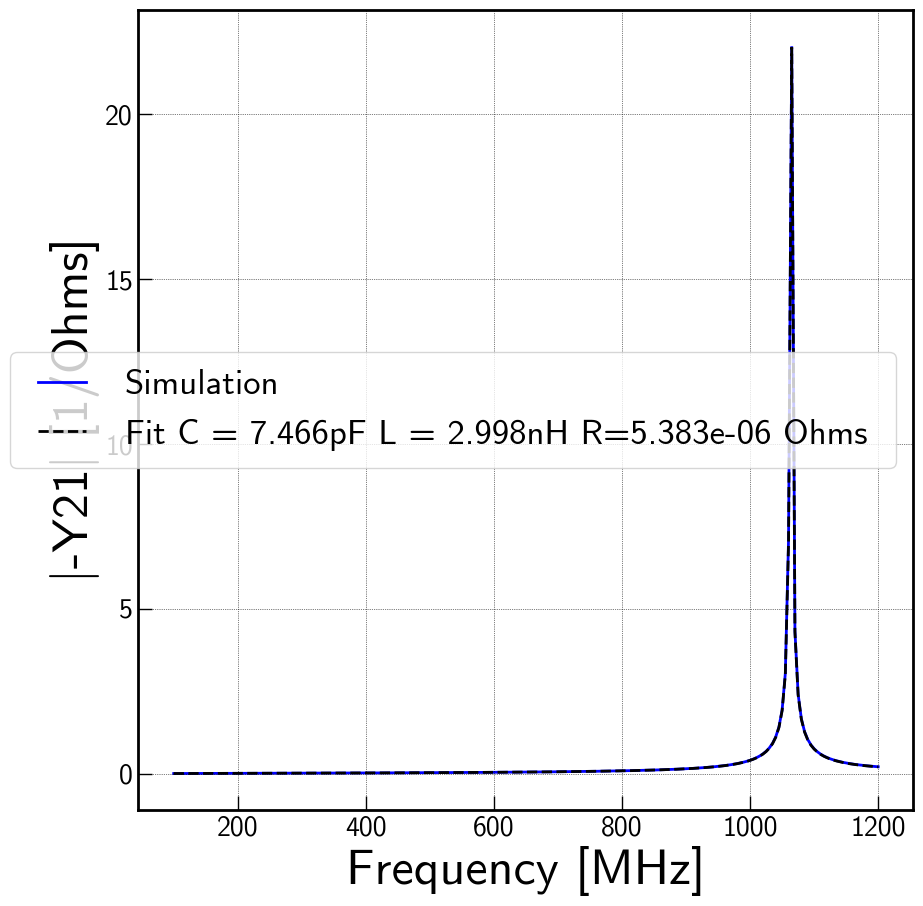
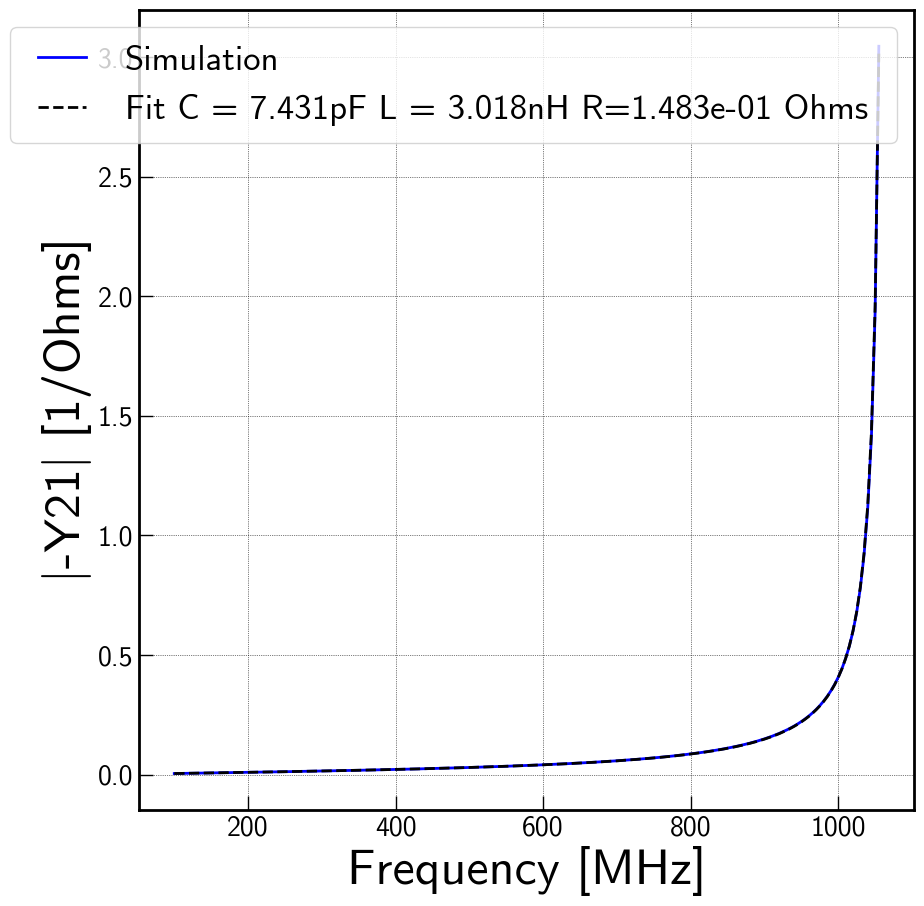
reducing fit range for cap

diff --git a/code/TKIDModule_extractQcsfromfullresosims.py b/code/TKIDModule_extractQcsfromfullresosims.py
@@ -452,11 +452,12 @@ def get_cap_params(Ydata, savename):
     wpeak = 2*pi*f[np.argmax(nY21.imag)]
     C_est = nY21.imag[0]/(2*pi*f[0])
     L_est = 1/(wpeak**2*C_est)
+    fpeak = wpeak/2/pi
     #L_est = 1e-20
     R_est = 1e-5
     #C1_est = 2.0*pF
-    #Yp1 = Yp1[f/MHz < 500]
-    #f = f[f/MHz < 500]
+    nY21 = nY21[f < fpeak]
+    f = f[f < fpeak]
 
 
     p0 = [C_est, L_est, R_est]
@@ -700,7 +701,7 @@ if __name__=="__main__":
     plt.xlabel('Frequency [MHz]')
     plt.ylabel('Ceffective [pF]')
     plt.savefig(plotdir + 'ceff_vs_Frequency.png')
-    plt.show()
+    #plt.show()
     #plt.close('all')
     #exit()
 
@@ -747,8 +748,8 @@ if __name__=="__main__":
 
     plt.figure()
     plt.plot(Nfingers, frs, 'ko', ls='None', ms=12)
-    plt.plot(Nfine, frfine, 'r-')
-    plt.plot(Nfine, frfine2, 'b-')
+    #plt.plot(Nfine, frfine, 'r-')
+    #plt.plot(Nfine, frfine2, 'b-')
     plt.grid()
     plt.xlabel('Nfingers')
     plt.ylabel('fr [MHz]')
@@ -791,6 +792,14 @@ if __name__=="__main__":
     plt.savefig('Cs_vs_frequency.png')
 
     plt.figure()
+    plt.plot(Nfingers, Cs/pF, 'ko', ls='None', ms=12)
+    #plt.semilogy(Nfine, Qcfine, 'r-')
+    plt.grid()
+    plt.xlabel('Nfingers')
+    plt.ylabel('Cs [pF]')
+    plt.savefig('Cs_vs_Nfingers.png')
+
+    plt.figure()
     plt.plot(frs, Ls/nH, 'ko', ls='None', ms=12)
     #plt.semilogy(Nfine, Qcfine, 'r-')
     plt.grid()
@@ -799,11 +808,26 @@ if __name__=="__main__":
     plt.savefig('Lpar_vs_frequency.png')
 
     plt.figure()
+    plt.plot(Nfingers, Ls/nH, 'ko', ls='None', ms=12)
+    #plt.semilogy(Nfine, Qcfine, 'r-')
+    plt.grid()
+    plt.xlabel('Nfingers')
+    plt.ylabel('Ls [nH]')
+    plt.savefig('Lpar_vs_Nfingers.png')
+
+    plt.figure()
     plt.plot(frs, Rs, 'ko', ls='None', ms=12)
     #plt.semilogy(Nfine, Qcfine, 'r-')
     plt.grid()
     plt.xlabel('fr [MHz]')
     plt.ylabel('Rs [Ohms]')
     plt.savefig('loss_vs_frequency.png')
-    plt.show()
-    exit()
+
+    plt.figure()
+    plt.plot(Nfingers, Rs, 'ko', ls='None', ms=12)
+    #plt.semilogy(Nfine, Qcfine, 'r-')
+    plt.grid()
+    plt.xlabel('Nfingers')
+    plt.ylabel('Rs [Ohms]')
+    plt.savefig('loss_vs_Nfingers.png')
+    #plt.show()
